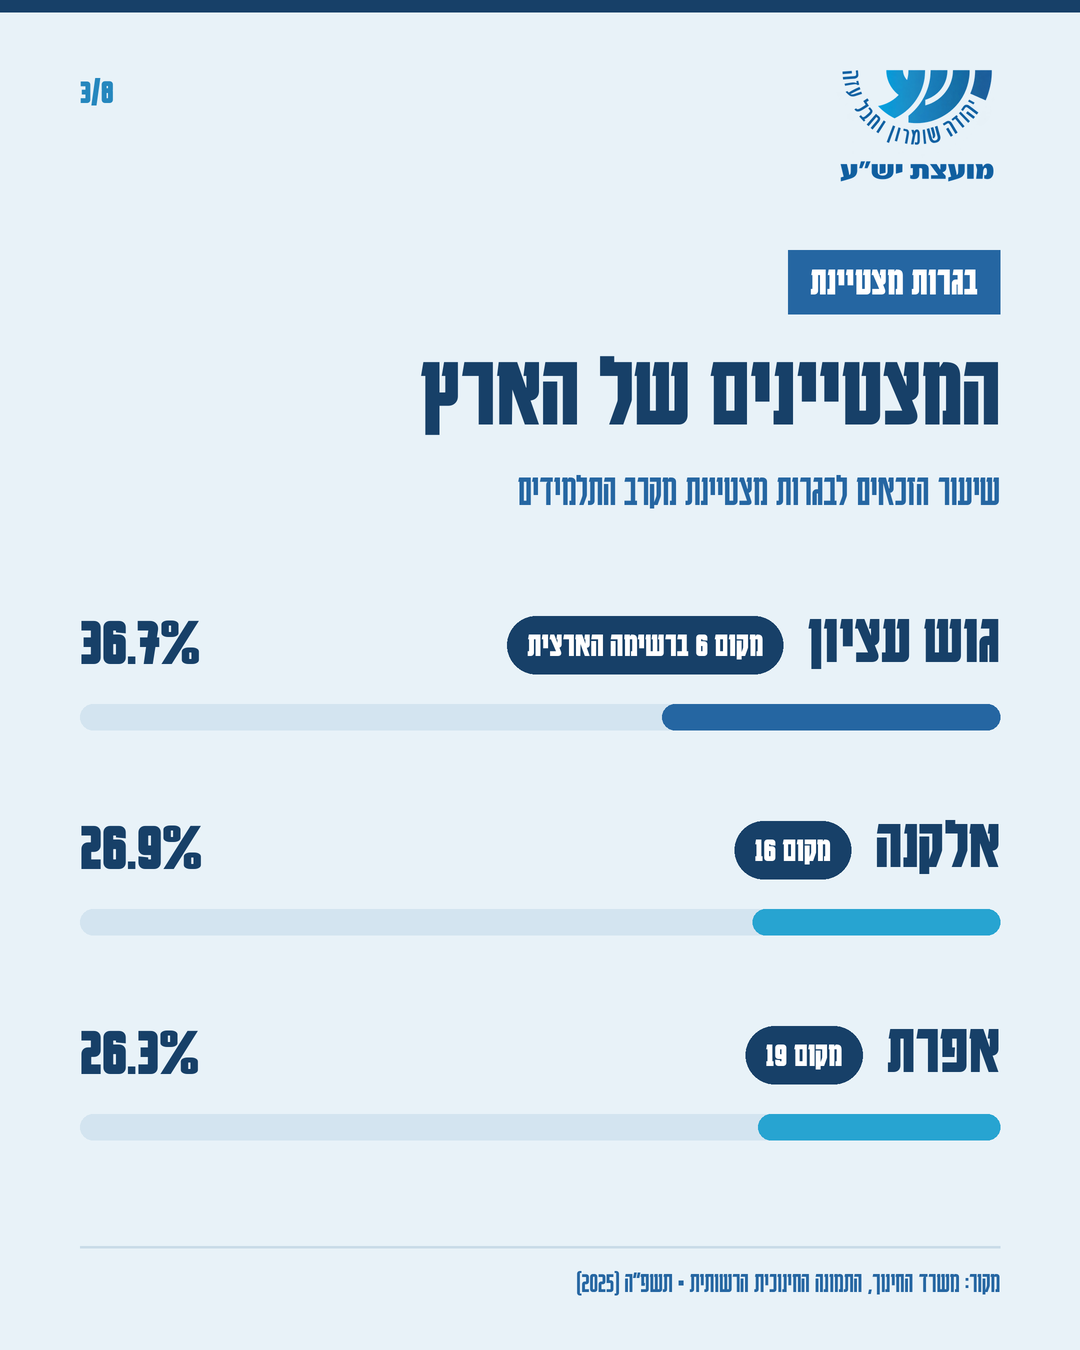
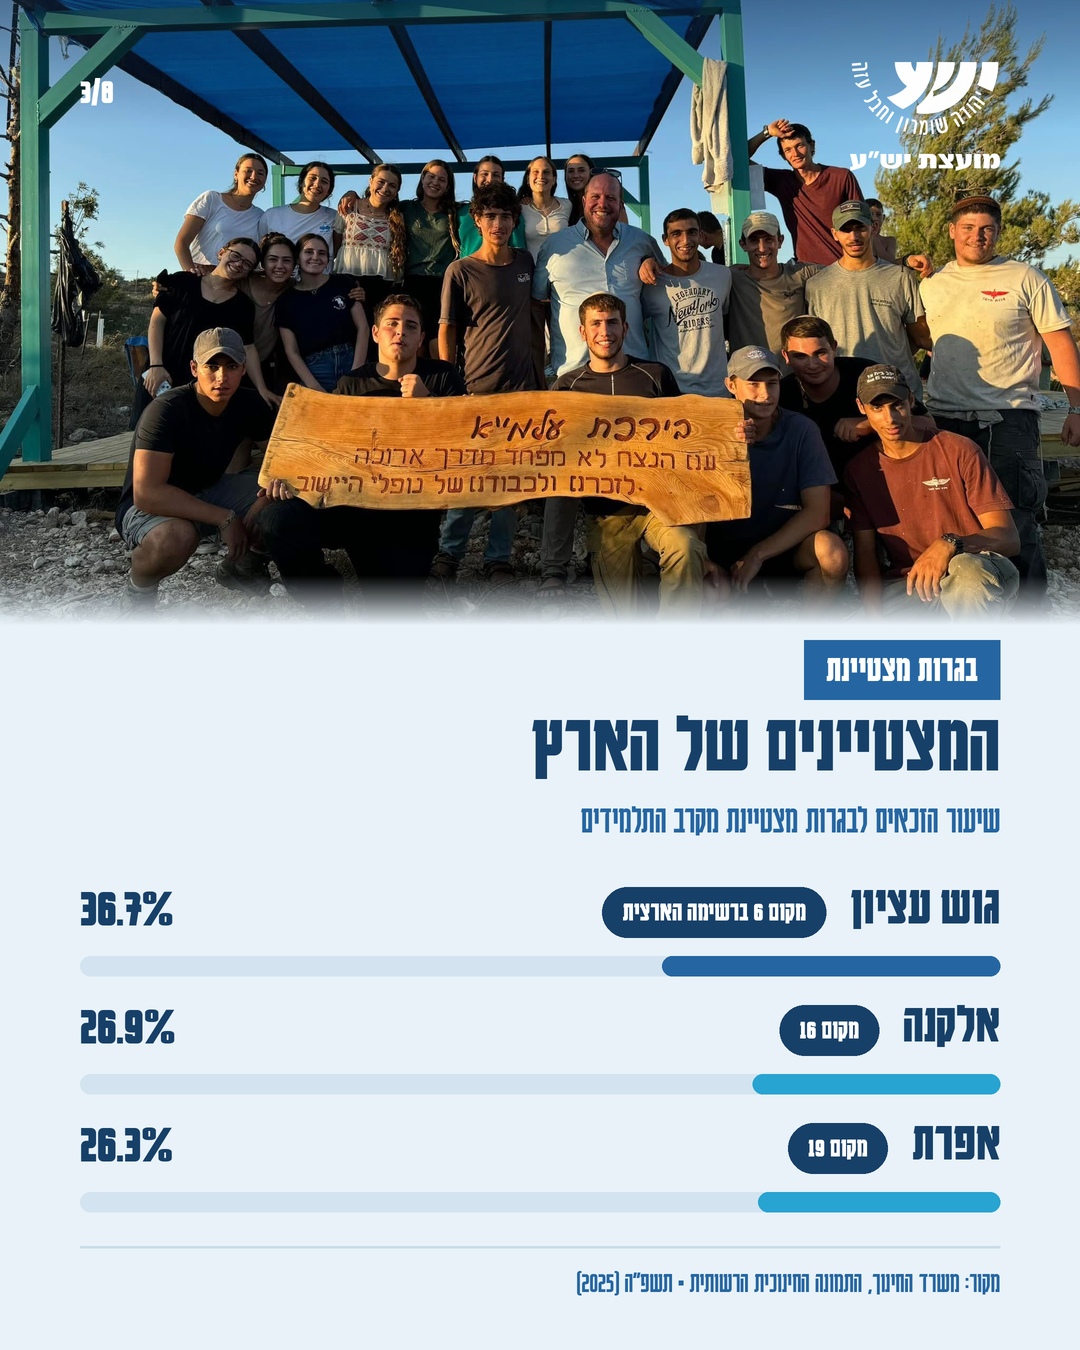
Add photo to Yesha carousel excellence slide
Claude-Session: https://claude.ai/code/session_01RS3QK6pAd3YhyAuXZSJjH1

diff --git a/content-kit/yesha/2026-10-education-carousel-v2/make.py b/content-kit/yesha/2026-10-education-carousel-v2/make.py
@@ -88,6 +88,7 @@ PHOTO_EFRAT = UP + '6168c27e-image.jpg'
 PHOTO_SHOMRON = UP + '76ebff00-image.jpg'
 PHOTO_ELKANA = UP + '177480c4-image.jpg'
 PHOTO_ARMY = UP + 'ac7bf51a-image.jpg'
+PHOTO_EXCEL = UP + '08871fa1-image.jpg'
 
 
 def bg_at(y):
@@ -237,13 +238,15 @@ def s2():
 
 # 3 — excellent matriculation
 def s3():
-    img = canvas(False); d = chrome(img, 3, False, SRC_EDU)
-    tag(d, 250, 'בגרות מצטיינת', 42)
-    text(d, (W - M, 335), 'המצטיינים של הארץ', 104, NAVY)
-    text(d, (W - M, 465), 'שיעור הזכאים לבגרות מצטיינת מקרב התלמידים', 46, BLUE, bold=False)
+    img = canvas(False)
+    photo(img, PHOTO_EXCEL, 625, 0.52, ICE, fade_from=0.92, top_dark=120)
+    d = chrome(img, 3, False, SRC_EDU, on_photo=True)
+    tag(d, 640, 'בגרות מצטיינת', 38)
+    text(d, (W - M, 698), 'המצטיינים של הארץ', 84, NAVY)
+    text(d, (W - M, 798), 'שיעור הזכאים לבגרות מצטיינת מקרב התלמידים', 40, BLUE, bold=False)
     rows = [('גוש עציון', 36.7, 'מקום 6 ברשימה הארצית'), ('אלקנה', 26.9, 'מקום 16'), ('אפרת', 26.3, 'מקום 19')]
     for i, (nm, pct, rk) in enumerate(rows):
-        bar_row(d, 600 + i * 205, nm, pct, rk, strong=(i == 0))
+        bar_row(d, 875 + i * 118, nm, pct, rk, strong=(i == 0), k=0.78)
     save(img, 3)
 
 
